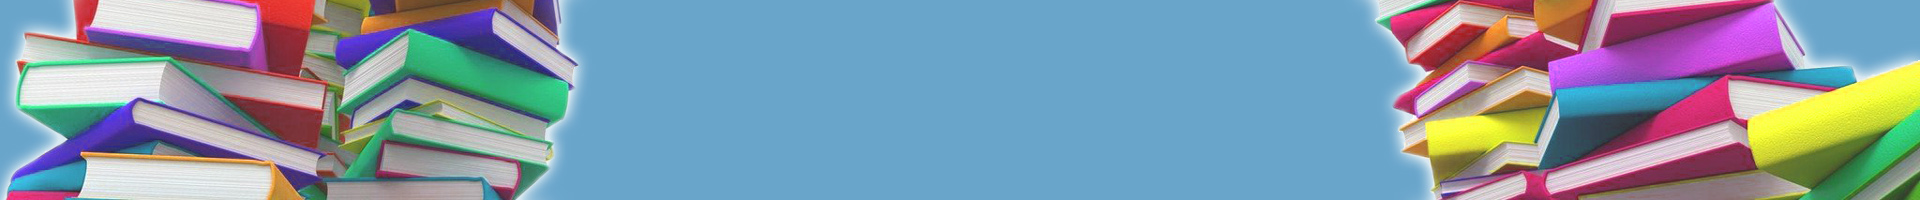
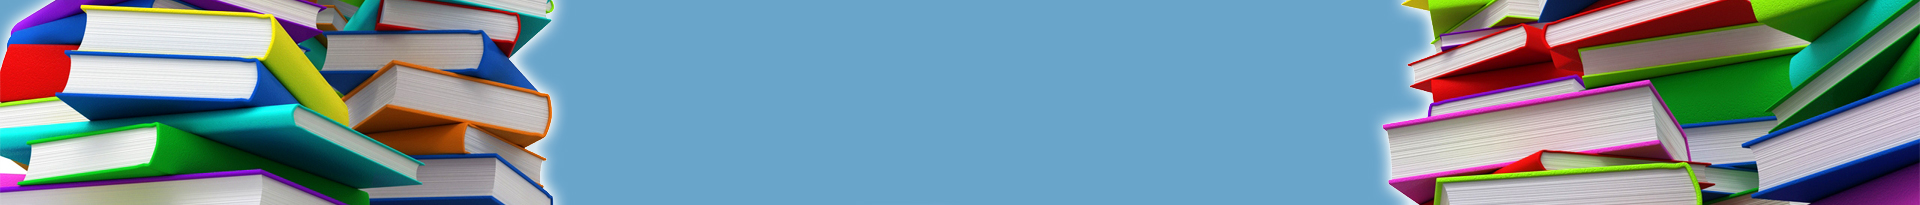
update background

diff --git a/src/utils/pathCompiler.js b/src/utils/pathCompiler.js
@@ -1,10 +1,8 @@
 import { host, prefix, paginationStep, APIkey } from '../constants.js';
 
-export const pathMaker = (request, startIndex = 0) => {
-  
-  
-  return `${host}/${prefix}${request}&startIndex=${startIndex}&maxResults=${paginationStep}&key=${APIkey}`;
-};
+export const pathMaker = (request, startIndex = 0) => (
+  `${host}/${prefix}${request}&startIndex=${startIndex}&maxResults=${paginationStep}&key=${APIkey}`
+);
 
 export const requestMaker = (requestText, category, sortBy) => {
   const formattedRequestText = requestText.split(' ').join('+');

diff --git a/src/styles/style.css b/src/styles/style.css
@@ -34,7 +34,7 @@ header {
   left: 0;
 
   width: 100%;
-  height: 200px;
+  height: 203px;
   margin: 0;
 
   text-align: center;
@@ -114,14 +114,14 @@ form span {
 
   margin-top: 5px;
 
-  font-size: 22px;
+  font-size: 19px;
 }
 
 .card {
   width: 170px;
   height: 280px;
 
-  margin: 0 15px 15px;
+  margin: 0 10px 15px;
   padding: 20px 15px 10px;
 
   overflow-y: hidden;

diff --git a/src/pages/ResultsPage.jsx b/src/pages/ResultsPage.jsx
@@ -46,7 +46,7 @@ const ResultsPage =  ({
   return (
     <div className="books-container">
       <div className="flex flex-wrap">
-      {books.map((book) => <Card key={book.id} bookInfo={book} />)}
+      {books.map((book) => <Card key={book.etag} bookInfo={book} />)}
       </div>
       {(loadingState === 'requesting' && <Spinner />) ||
       (booksCount > lastBookIndex
